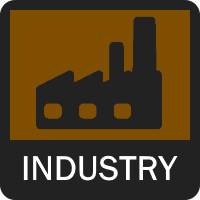
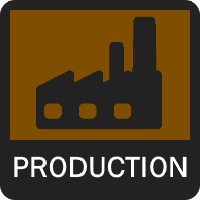
few more questions + industrial -> production

Changed region(s): [[0.06, 0.78, 0.96, 0.93]]

diff --git a/questions.js b/questions.js
@@ -1,7 +1,7 @@
 questions = [
 	//revolution vs reform
     {
-        "question": "Reforming capitalist society to achieve better rights for workers is desirable.",
+        "question": "Reforming capitalist society to achieve better rights for workers is desirable, even when it's not the final goal.",
         "effect": {
             "a": -5,
             "b": 0,
@@ -13,7 +13,7 @@ questions = [
         }
 	},
 	{
-		"question": "Revolution is the only way of achieving a socialist society.",
+		"question": "Revolution is the best way of achieving a socialist society.",
         "effect": {
             "a": 10,
             "b": 0,
@@ -96,6 +96,30 @@ questions = [
 			"g": 0
         }
     },
+	{
+		"question": "Modern social democracy is a betrayal of left-wing values.",
+        "effect": {
+            "a": 5,
+            "b": 0,
+            "c": 0,
+            "d": 0,
+			"e": 0,
+			"f": 0,
+			"g": 0
+        }
+    },
+	{
+		"question": "Oppressed peoples have the right to engage in a violent uprising when all other options have been exhausted.",
+        "effect": {
+            "a": 5,
+            "b": 0,
+            "c": 0,
+            "d": 5,
+			"e": 0,
+			"f": 0,
+			"g": 0
+        }
+    },
 	//scientific vs utopian
 	{
 		"question": "Material conditions and needs are the dominant drive behind socioeconomic changes.",
@@ -124,7 +148,7 @@ questions = [
 	{
 		"question": "It is possible to peacefully convince the ruling class to conform to a socialist society.",
         "effect": {
-            "a": 0,
+            "a": -5,
             "b": -10,
             "c": 0,
             "d": 0,
@@ -231,7 +255,7 @@ questions = [
         }
     },
 	{
-		"question": "In underdeveloped societies a centrally planned economy is the only way to make rapid progress.",
+		"question": "In underdeveloped societies a centrally planned economy is the best way to make rapid progress.",
         "effect": {
             "a": 0,
             "b": 0,
@@ -387,6 +411,30 @@ questions = [
 			"g": 0
         }
     },
+	{
+		"question": "National liberation, or self determination for all peoples, is a good concept.",
+        "effect": {
+            "a": 0,
+            "b": 0,
+            "c": 0,
+            "d": 5,
+			"e": 0,
+			"f": 0,
+			"g": 0
+        }
+    },
+	{
+		"question": "I would be willing to sacrifice economic resources in my home country in order to help other countries.",
+        "effect": {
+            "a": 0,
+            "b": 0,
+            "c": 0,
+            "d": 5,
+			"e": 0,
+			"f": 0,
+			"g": 0
+        }
+    },
 	//party vs union
 	{
 		"question": "Socialist political parties should participate in liberal democratic elections.",
@@ -484,7 +532,7 @@ questions = [
 			"g": 0
         }
     },
-	//industry vs ecology
+	//production vs ecology
 	{
 		"question": "Climate change is a major global threat that all socialists must fiercly combat.",
         "effect": {

diff --git a/index.html b/index.html
@@ -29,8 +29,8 @@
         Those with a higher international score tend to support forming an international socialist movement, often with the eventual goal of abolishing nations. Those with a higher national score tend to prioritize building socialism within existing borders and reject the goal of a world socialist republic.</p>
 	<p class="value-description"><b style="color:#963B33;">Party</b> <b>vs.</b> <b style="color:#7F333B;">Union</b><br/>
         Those with a higher party score tend to favor using political parties as the basis of a socialist movement. Those with a higher union score tend to favor using trade unions and other forms of mass organization as a basis of a socialist movement. Being pro-party does not necessarily mean you oppose unions and vice versa, it is more about preference.</p>
-	<p class="value-description"><b style="color:#804E00;">Industry</b> <b>vs.</b> <b style="color:#586808;">Ecology</b><br/>
-        Those with a higher industry score tend to prioritize industrial development and self-sustainability over ecological goals. Those with a higher ecological score tend to support an environmentally oriented economy with strict ecological protections.</p>
+	<p class="value-description"><b style="color:#804E00;">Production</b> <b>vs.</b> <b style="color:#586808;">Ecology</b><br/>
+        Those with a higher production score tend to prioritize industrial output and self-sustainability over ecological goals. Those with a higher ecological score tend to support an environmentally oriented economy with strict ecological protections.</p>
 	<p class="value-description"><b>New: </b><b style="color:#27577A;">Conservative</b> <b>vs.</b> <b style="color:#C4A717;">Progressive</b><br/>
         Those with a higher conservative score tend to favor more socially conservative policies and views. Those with a higher progressive score tend to support more socially progressive policies and views.</p>
 <h2>What does "Closest Match" mean in the results?</h2>

diff --git a/results.html b/results.html
@@ -114,7 +114,7 @@ Analytics"></a></div></noscript>
     cArray = ["Extremely Centralist","Very Centralist","Centralist","Neutral","Decentralist","Very Decentralist","Extremely Decentralist"]
     dArray = ["Extremely Internationalist","Very Internationalist","Internationalist","Neutral","Nationalist","Very Nationalist","Extremely Nationalist"]
 	eArray = ["Extremely Leans Party","Highly Leans Party","Leans Party","Neutral","Leans Union","Highly Leans Union","Extremely Leans Union"]
-	fArray = ["Extremely Industrial","Very Industrial","Industrial","Neutral","Ecological","Very Ecological","Extremely Ecological"]
+	fArray = ["Extremely Productive","Very Productive","Productive","Neutral","Ecological","Very Ecological","Extremely Ecological"]
 	gArray = ["Extremely Conservative","Very Conservative","Conservative","Neutral","Progressive","Very Progressive","Extremely Progressive"]
 
     function setLabel(val,ary) {
